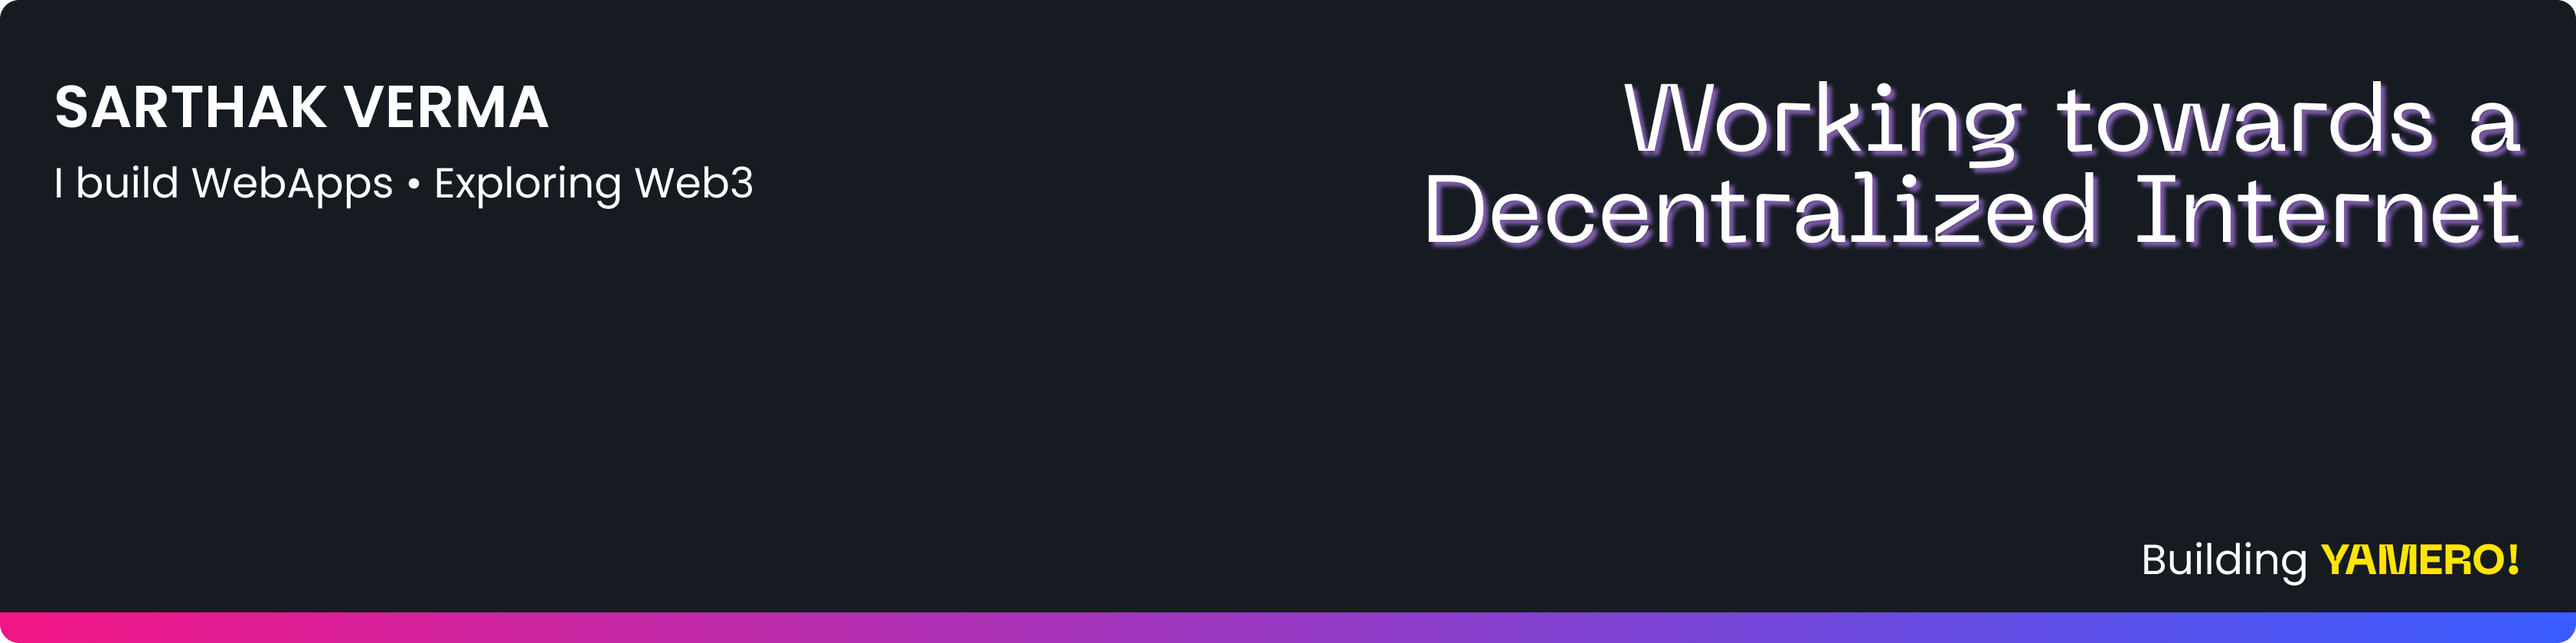
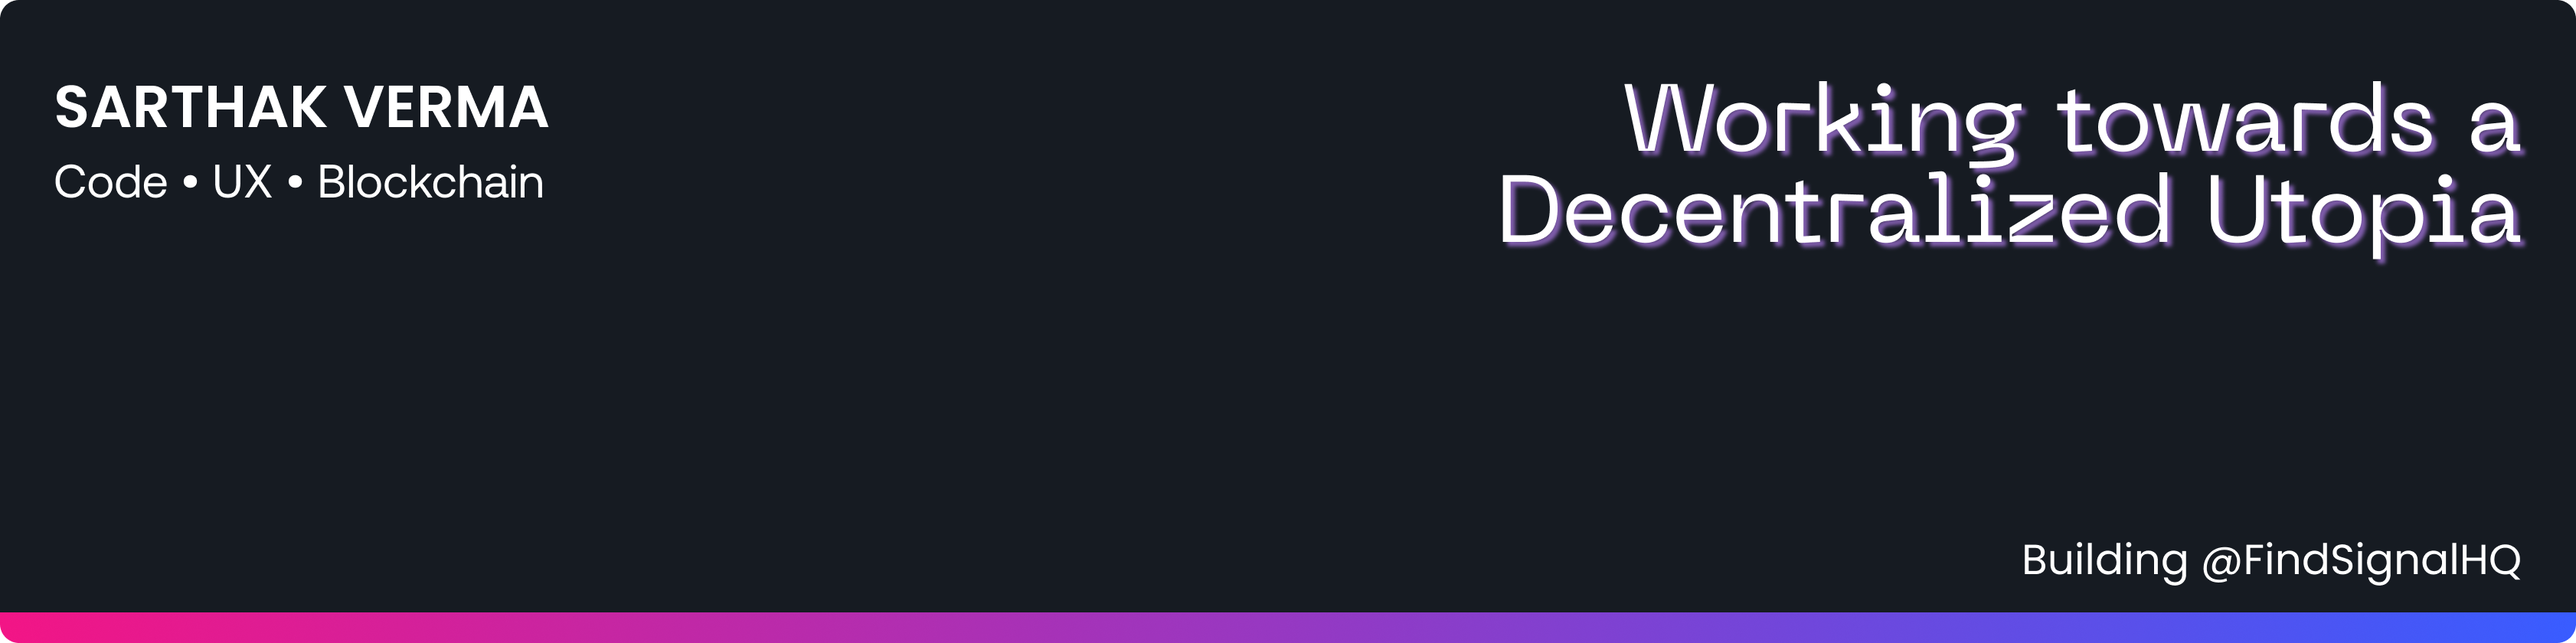
Major removals - redirect to garden

Changed region(s): [[0.5306, 0.2476, 0.9988, 0.4024], [0.0, 0.2476, 0.3121, 0.3095], [0.7803, 0.8357, 0.9988, 0.8976]]

diff --git a/README.md b/README.md
@@ -1,58 +1,21 @@
+![Banner](./images/banner.png)
+
 [![Twitter: sarthak](https://img.shields.io/twitter/follow/0xSarthak?style=social)](https://twitter.com/0xSarthak)
 [![GitHub Sarthak](https://img.shields.io/github/followers/sarthakvdev?label=follow&style=social)](https://github.com/sarthakvdev)
-
-![Banner](./images/banner.png)
+![Github Views](https://komarev.com/ghpvc/?username=sarthakvdev&style=flat-square&color=3E5FF8)
 
 ##### `I love building products.`
 
-🌱 Currently learning Next, Node/Express, Databases and Solidity. Exploring Web3.
+---
 
-✨ Working on my UX and Creative writing skills. I love Designing Interfaces with a great UX.
-
-📒 Documenting my Journey and learning at [my personal internet corner](https://sarthakverma.vercel.app).
+📒 Visit [sarthak.wtf](https://sarthak.wtf) to know about my latest ventures, what am I up to, and read some exciting blogs as a bonus.
 
 🦾 Build and Ship FTW!
 
-📩 Fastest way to reach me? Shoot DM on [LinkedIn](https://linkedin.com/in/sarthakv), [Twitter](https://twitter.com/0xSarthak) or [email](mailto:sarthakvdev@gmail.com)
-
-<br>
-
-![Github Views](https://komarev.com/ghpvc/?username=sarthakvdev&style=flat-square&color=3E5FF8)
-
-[![Sarthak's GitHub stats](https://github-readme-stats.vercel.app/api?username=sarthakvdev)](https://github.com/anuraghazra/github-readme-stats)
-
-<br>
-
-### Development Stack
-<div style="display:inline-block">
-    <img alt="React" src="https://img.shields.io/badge/react%20-%2320232a.svg?&style=for-the-badge&logo=react&logoColor=%2361DAFB"/>
-    <img alt="Next JS" src="https://img.shields.io/badge/nextjs-%23000000.svg?style=for-the-badge&logo=next.js&logoColor=white"/>
-    <img alt="Redux" src="https://img.shields.io/badge/redux-%23593d88.svg?style=for-the-badge&logo=redux&logoColor=white"/>
-    <img alt="NodeJS" src="https://img.shields.io/badge/node.js%20-%2343853D.svg?&style=for-the-badge&logo=node.js&logoColor=white"/>
-    <img alt="ChakraUI" src="https://img.shields.io/badge/chakra%20ui-61C8C8?style=for-the-badge&logo=chakraui&logoColor=white"/>
-    <img alt="TailwindCSS" src="https://img.shields.io/badge/tailwindcss-%2338B2AC.svg?style=for-the-badge&logo=tailwind-css&logoColor=white"/>
-    <img alt="Material UI" src="https://img.shields.io/badge/materialui-%230081CB.svg?style=for-the-badge&logo=material-ui&logoColor=white"/>
-    <img alt="Styled Components" src="https://img.shields.io/badge/styled--components-DB7093?style=for-the-badge&logo=styled-components&logoColor=white"/>
-</div>
-
-### Languages
-<div style="display:inline-block">
-    <img alt="JavaScript" src="https://img.shields.io/badge/javascript%20-%23323330.svg?&style=for-the-badge&logo=javascript&logoColor=%23F7DF1E"/>
-    <img alt="Python" src="https://img.shields.io/badge/python%20-%2314354C.svg?&style=for-the-badge&logo=python&logoColor=white"/>
-</div>
-
-### Bonus Tools
-<div style="display:inline-block">
-    <img alt="Git" src="https://img.shields.io/badge/git-%23F05033.svg?style=for-the-badge&logo=git&logoColor=white"/>
-    <img alt="Figma" src="https://img.shields.io/badge/Figma-purple?style=for-the-badge&logo=figma&logoColor=white"/>
-</div>
-
-### Connect with me
-[![LinkedIn](https://img.shields.io/badge/linkedin-%230077B5.svg?style=for-the-badge&logo=linkedin&logoColor=white)](https://linkedin.com/in/sarthakv/)
-<a href="mailto:sarthakvdev@gmail.com">
-    <img alt="Gmail" src="https://img.shields.io/badge/Gmail-D14836?style=for-the-badge&logo=gmail&logoColor=white"/>
-</a>
+📩 Fastest way to reach me? Shoot DM on [LinkedIn](https://linkedin.com/in/sarthakv), [Twitter](https://twitter.com/0xSarthak) or [email](mailto:sarthakvdev@gmail.com). Happy to help or connect.
 
 ---
 
-Imported the badges from [Github Badges](https://github.com/Ileriayo/markdown-badges)
+<br>
+
+[![Sarthak's GitHub stats](https://github-readme-stats.vercel.app/api?username=sarthakvdev)](https://github.com/anuraghazra/github-readme-stats)
